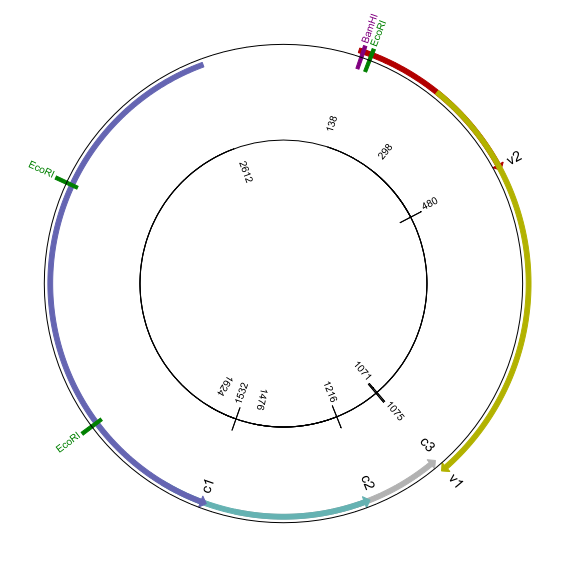
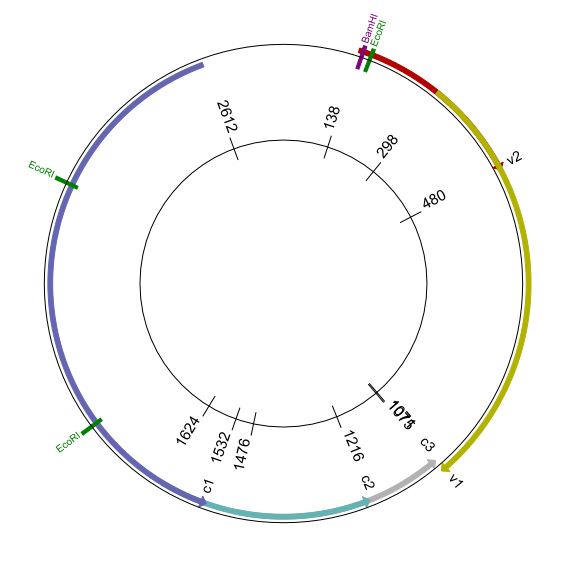
Add files via upload

diff --git a/circularGenomeMap.py b/circularGenomeMap.py
@@ -89,23 +89,28 @@ for feature in record.features:
     
     color = colors.black
 
-    temp_end = str(feature.location.end)
-    temp_start = str(feature.location.start)
+    temp_end = feature.location.end
+    temp_start = feature.location.start
 
-    if feature.location.strand < 0:
-        temp = temp_end
-        temp_end = temp_start
-        temp_start = temp
-
-    feature.qualifiers["gene"][0] = temp_end
+    feature.location = FeatureLocation(temp_start, temp_start)
     gd_feature_set.add_feature(
-        feature, sigil="BIGARROW", color=color, label=True, label_size=10, label_angle=0, label_position = "end", arrowshaft_height=0.001,  arrowhead_length=0.0001
-    )
+            feature,
+            color=color,
+            name= str(temp_start),
+            label=True,
+            label_size=15,
+            label_color=color,
+        )
 
-    feature.qualifiers["gene"][0] = temp_start
+    feature.location = FeatureLocation(temp_end, temp_end)
     gd_feature_set.add_feature(
-        feature, sigil="BIGARROW", color=color, label=True, label_size=10, label_angle=0, label_position = "start", arrowshaft_height=0.001,  arrowhead_length=0.0001
-    )
+            feature,
+            color=color,
+            name= str(temp_end),
+            label=True,
+            label_size=15,
+            label_color=color,
+        )
 #
 
 
